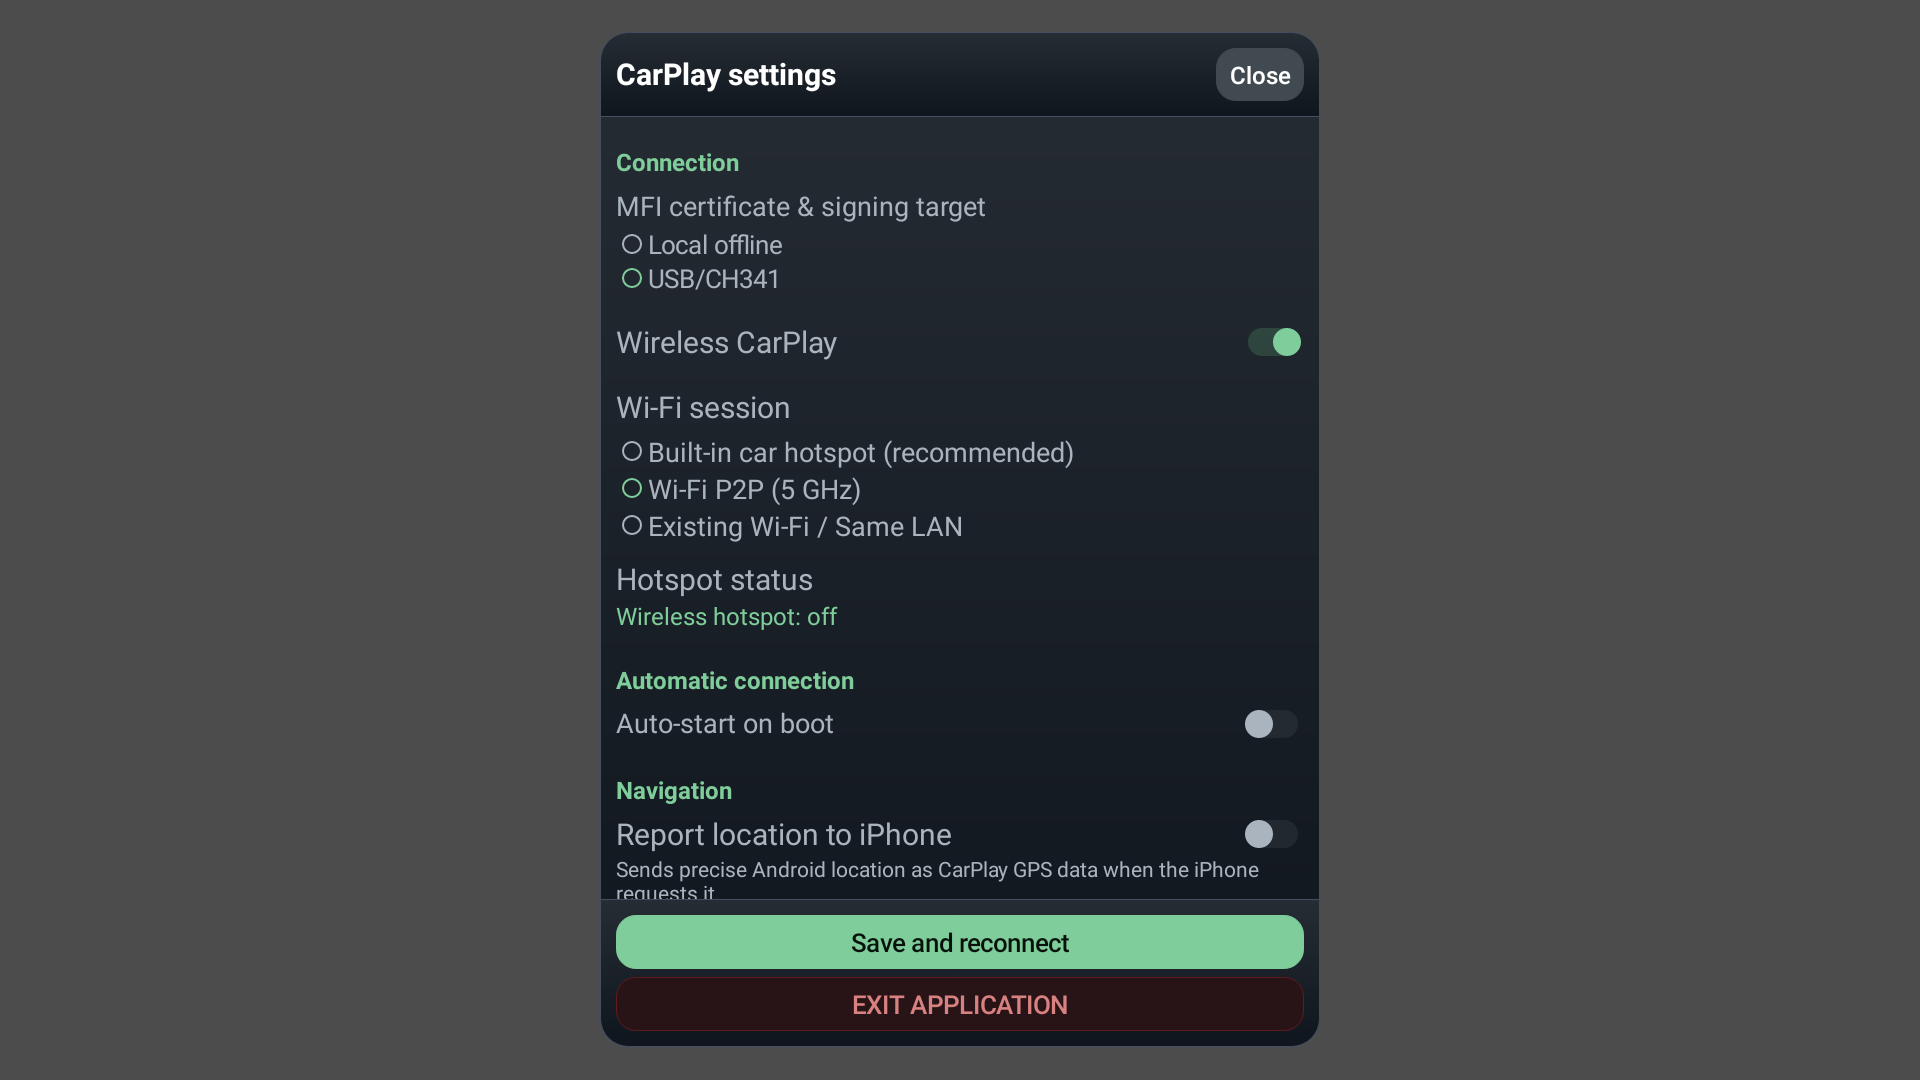
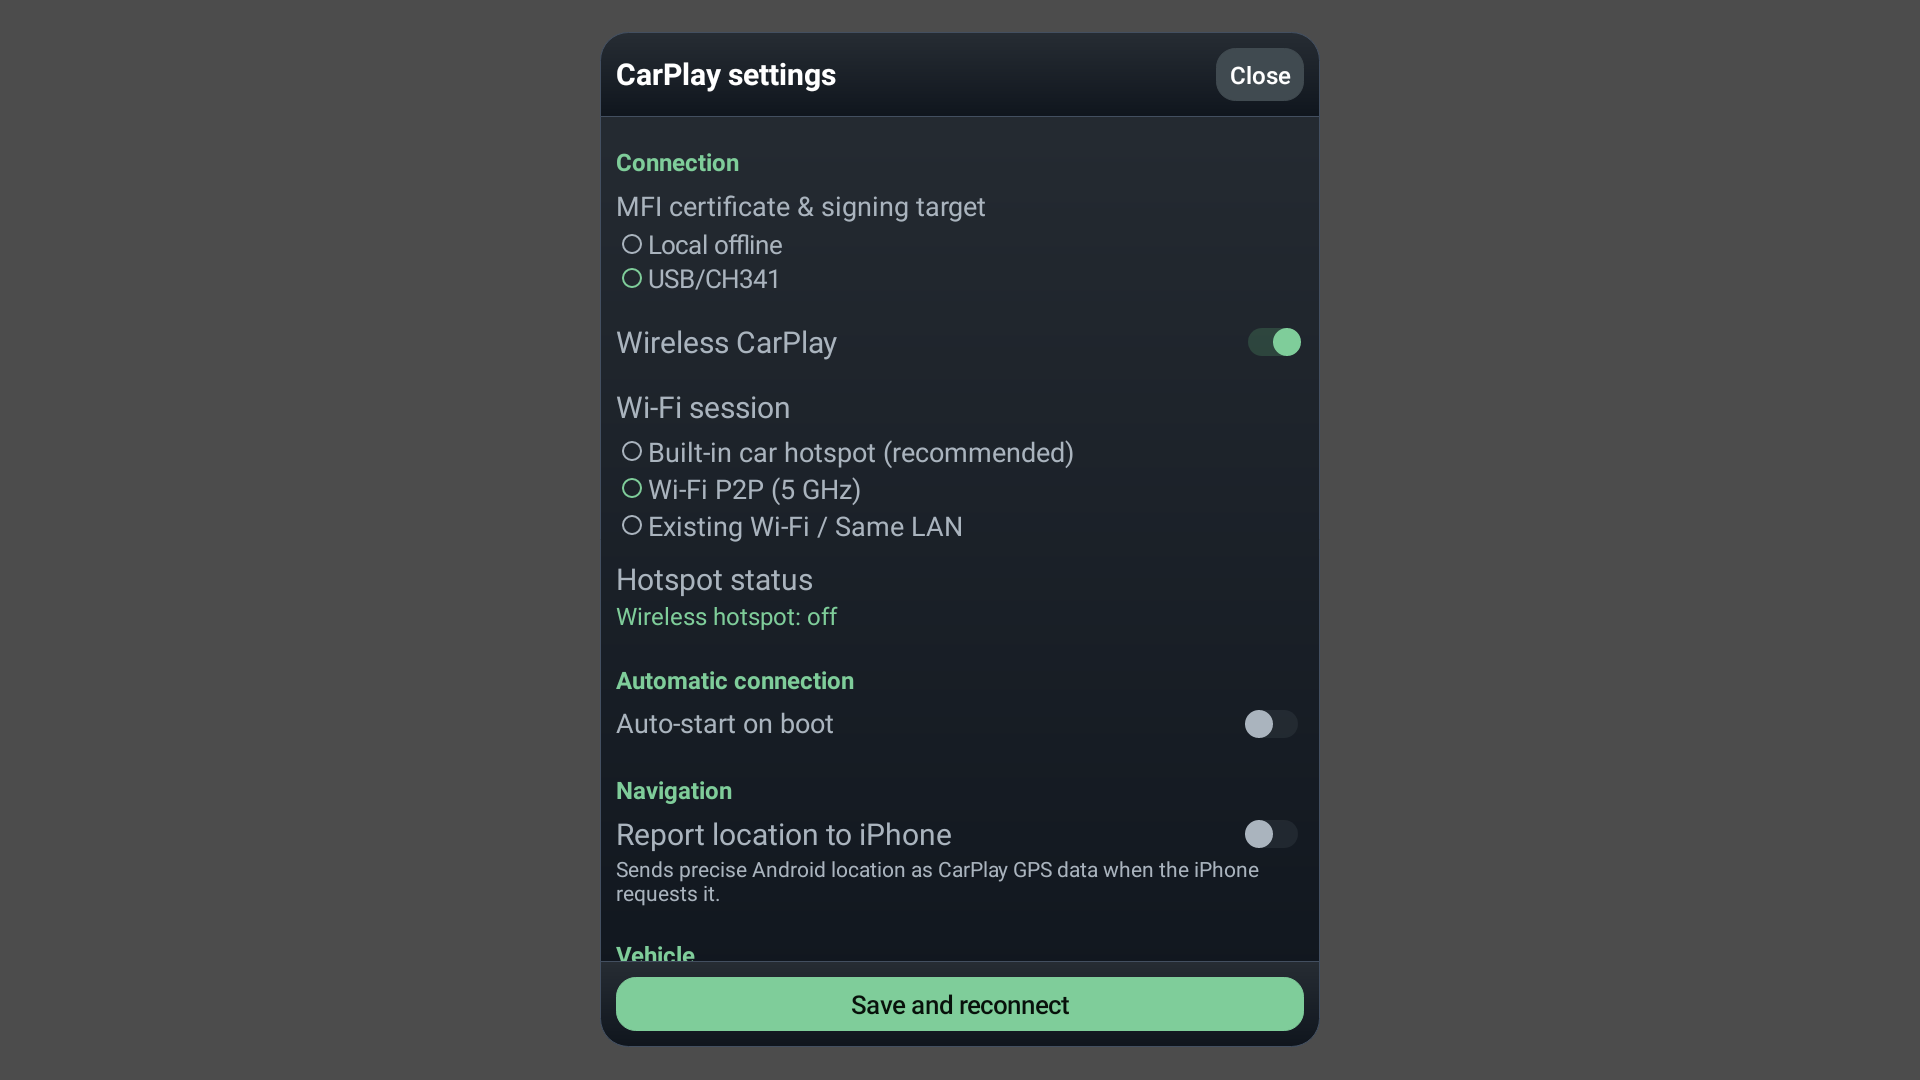
Keep Exit application in the list instead of pinned beside Save
Exit ends CarPlay. Pinned directly under Save and reconnect on every
scroll position, it sat where a driver reaches for Save. Save stays
pinned below the list; Exit is the list's last item again, as before
#642. The test checks both placements, and the four screenshots are
regenerated with DIPLAY_SCREENSHOT_DIR.

Changed region(s): [[0.3125, 0.825, 0.6875, 0.9778]]

diff --git a/common/src/test/java/com/shilapi/xcertplay/CarPlayHostSettingsTest.kt b/common/src/test/java/com/shilapi/xcertplay/CarPlayHostSettingsTest.kt
@@ -124,15 +124,18 @@ class CarPlayHostSettingsTest {
             assertTrue(panel.top > 0)
             assertTrue(panel.bottom < height)
             val scroll = views(panel).filterIsInstance<ScrollView>().first()
-            for (label in listOf(R.string.save_and_reconnect, R.string.exit_application)) {
-                val action = views(panel).filterIsInstance<Button>()
-                    .first { it.text == activity.getString(label) }
-                assertFalse(views(scroll).any { it === action })
-                val bounds = android.graphics.Rect(0, 0, action.width, action.height)
-                panel.offsetDescendantRectToMyCoords(action, bounds)
-                assertTrue(bounds.top >= scroll.bottom)
-                assertTrue(bounds.bottom <= panel.height)
-            }
+            fun action(label: Int) = views(panel).filterIsInstance<Button>().first { it.text == activity.getString(label) }
+            // Save stays pinned below the list while it scrolls.
+            val save = action(R.string.save_and_reconnect)
+            assertFalse(views(scroll).any { it === save })
+            val bounds = android.graphics.Rect(0, 0, save.width, save.height)
+            panel.offsetDescendantRectToMyCoords(save, bounds)
+            assertTrue(bounds.top >= scroll.bottom)
+            assertTrue(bounds.bottom <= panel.height)
+            // Exit ends CarPlay: it is the last item of the list, never pinned next to Save.
+            val exit = action(R.string.exit_application)
+            val list = scroll.getChildAt(0) as ViewGroup
+            assertTrue(list.getChildAt(list.childCount - 1) === exit)
         }
     }
 

diff --git a/common/src/main/java/com/shilapi/xcertplay/CarPlayHostActivity.kt b/common/src/main/java/com/shilapi/xcertplay/CarPlayHostActivity.kt
@@ -2989,6 +2989,15 @@ class CarPlayHostActivity : ComponentActivity() {
                 ViewGroup.LayoutParams.WRAP_CONTENT,
             ).apply { topMargin = dp(12) },
         )
+        // Exit ends CarPlay, so it stays at the end of the list rather than pinned beside Save, where a
+        // driver could hit it while reaching for Save.
+        content.addView(
+            exitApplicationButton,
+            LinearLayout.LayoutParams(
+                ViewGroup.LayoutParams.MATCH_PARENT,
+                ViewGroup.LayoutParams.WRAP_CONTENT,
+            ).apply { topMargin = dp(30) },
+        )
 
         val scroll = ScrollView(this).apply {
             isFillViewport = true
@@ -3041,8 +3050,6 @@ class CarPlayHostActivity : ComponentActivity() {
                 dp(SWIPE_CHROME_PADDING_DP), dp(SWIPE_CHROME_PADDING_DP))
             addView(save, LinearLayout.LayoutParams(ViewGroup.LayoutParams.MATCH_PARENT,
                 ViewGroup.LayoutParams.WRAP_CONTENT))
-            addView(exitApplicationButton, LinearLayout.LayoutParams(ViewGroup.LayoutParams.MATCH_PARENT,
-                ViewGroup.LayoutParams.WRAP_CONTENT).apply { topMargin = dp(SWIPE_ACTION_GAP_DP) })
         }
         panel.addView(LinearLayout(this).apply {
             orientation = LinearLayout.VERTICAL

diff --git a/docs/RELEASE-NOTES-NEXT.md b/docs/RELEASE-NOTES-NEXT.md
@@ -24,6 +24,7 @@ Changes through DiPlay 0.2.18 are documented in [0.2.18 release notes](RELEASE-N
 - Dialogs have a background again on Android 9 and older. Since 0.2.15, those versions drew Settings dialogs such as the car hotspot details without one, over the page behind them ([#640](https://github.com/shihabal3amri/DiPlay/issues/640), [#617](https://github.com/shihabal3amri/DiPlay/issues/617)). [#644](https://github.com/shihabal3amri/DiPlay/pull/644)
 - On DiLink 4.0 with **CarPlay map on dashboard (experimental)** on, CarPlay no longer restarts after it first connects when the driver touches the screen, as when choosing an app for a route ([#536](https://github.com/shihabal3amri/DiPlay/issues/536)). DiPlay opened the dashboard map before its own window had focus, so a system bar stayed on screen and CarPlay started at 1920×942. The first touch returned focus, hid the bar and restarted CarPlay at 1920×990. DiPlay now opens the dashboard map after its window takes focus, and starts CarPlay when the map is ready, at most 3 s later. The report logs `Cluster activity: launching after the main window took focus`. Pending in-car acceptance. [#663](https://github.com/shihabal3amri/DiPlay/pull/663)
 - With the status bar kept on screen, CarPlay no longer stays scaled down after the reversing camera. On an ESSGOO head unit the camera hid the status bar, so DiPlay's window grew from 1280×660 to 1280×720 and DiPlay restarted CarPlay at that size; when the bar came back, the larger picture was fitted into the smaller window ([#643](https://github.com/shihabal3amri/DiPlay/issues/643)). While another window hides the status bar that the driver keeps, DiPlay now keeps the session at its size. The report logs `while another window hides the status bar; keeping CarPlay session`. Pending in-car acceptance. [#674](https://github.com/shihabal3amri/DiPlay/pull/674)
+- The swipe-down settings menu inside CarPlay is a centred panel with a dimmed backdrop, a Close button instead of the small X, and **Save and reconnect** kept visible while the settings scroll. **Exit application** stays at the end of the list, away from Save. Contributed by @serein-morii ([#642](https://github.com/shihabal3amri/DiPlay/pull/642)).
 - The custom dashboard turn card disappears 5 s after the driver ends navigation. It stayed on the last turn for up to two minutes ([#511](https://github.com/shihabal3amri/DiPlay/issues/511)). After a wireless connection drop, the card is still kept until guidance returns. Pending in-car acceptance. [#644](https://github.com/shihabal3amri/DiPlay/pull/644)
 
 ## Diagnostics
